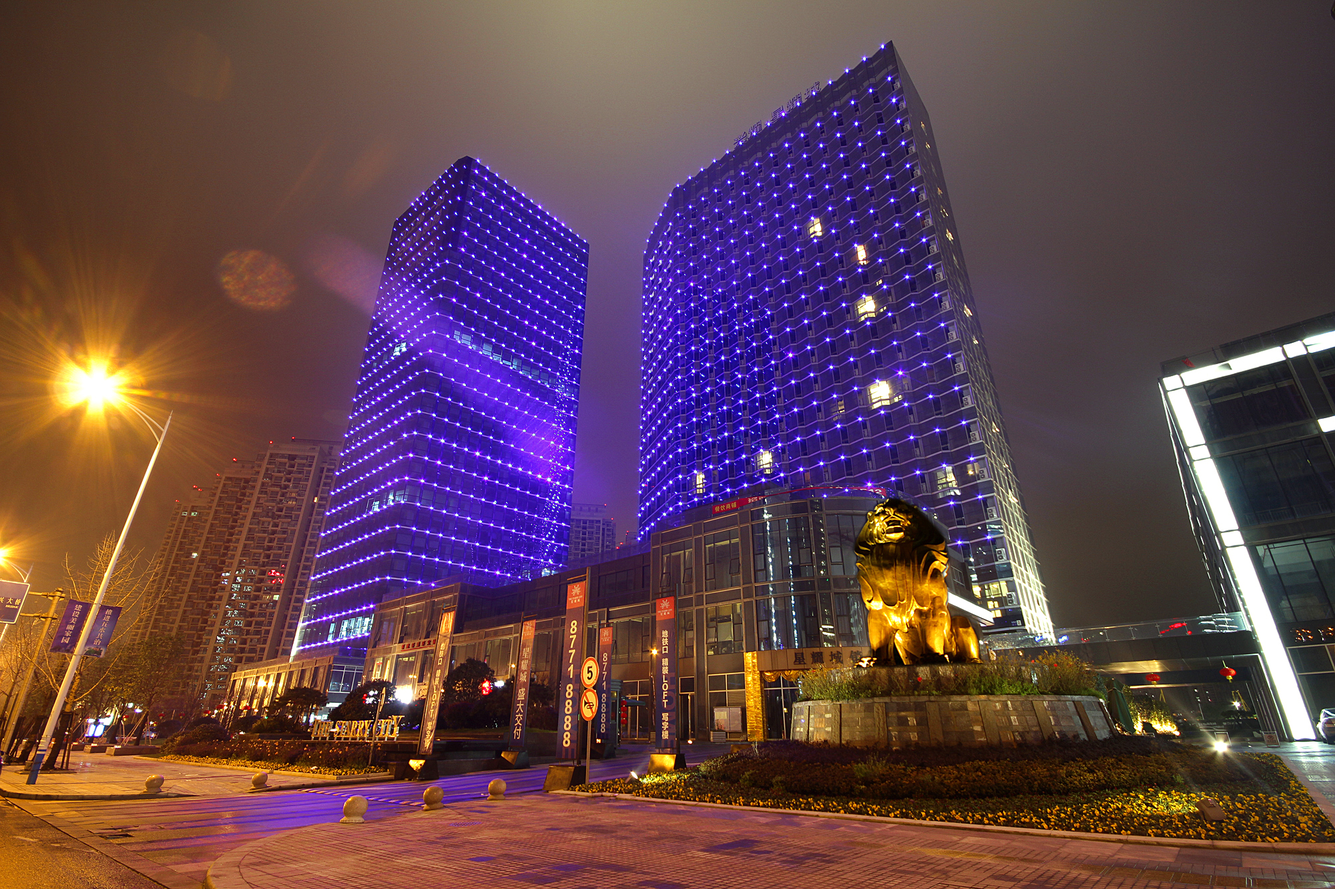
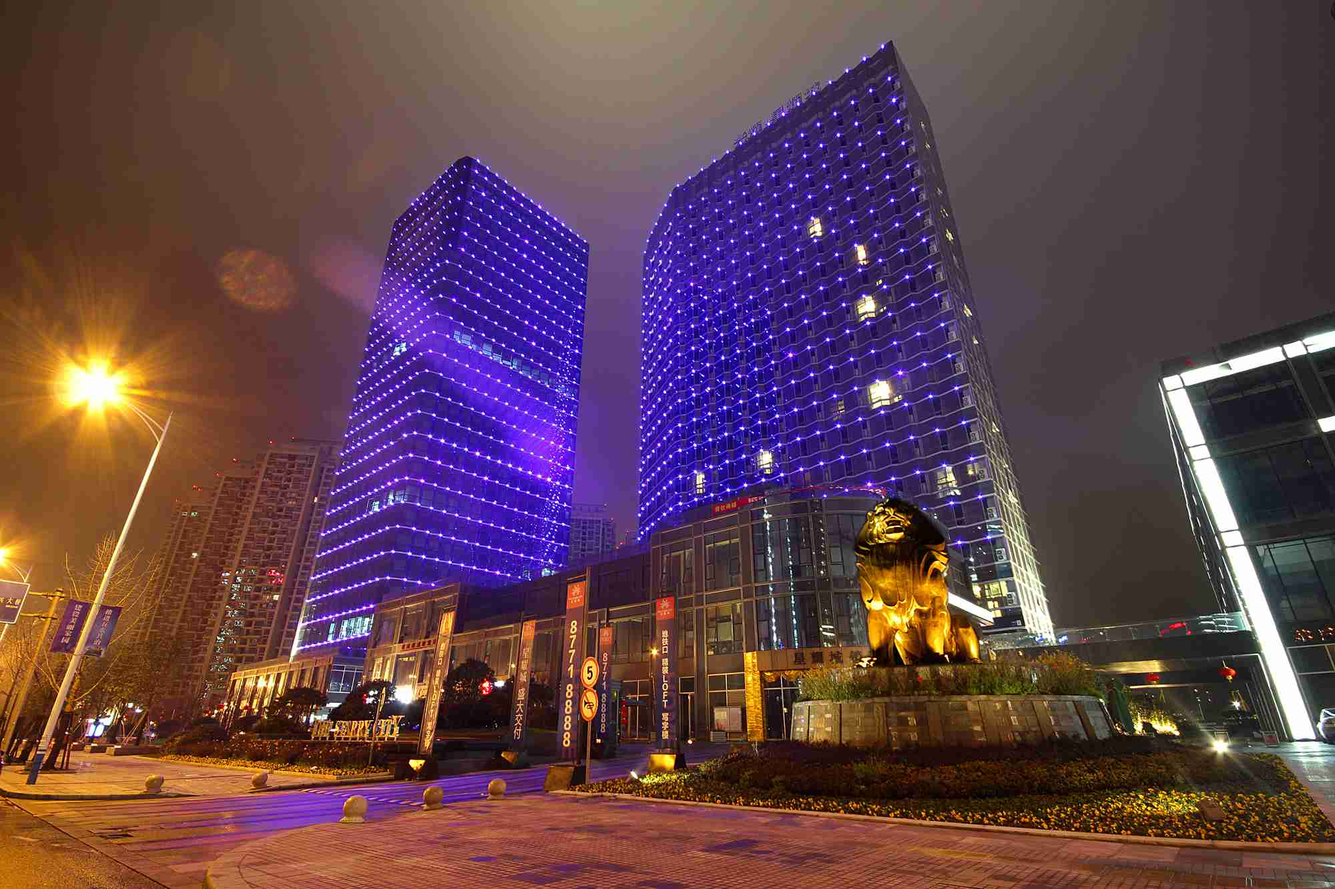
update

diff --git a/index.html b/index.html
@@ -30,14 +30,14 @@
                 <div class="smallbanner">
                     <div class="col-sm-6">
                         <div class="smallbannerimg">
-                            <img src="images/qiantai.png" alt="" />
+                            <img src="images/qiantai.jpg" alt="" />
                             <h3>宜兰公馆</h3>
                             <a href="#">Read More</a>
                         </div>
                     </div>
                     <div class="col-sm-6">
                         <div class="smallbannerimg">
-                            <img src="images/zhenpindachuangfang.png" alt="" />
+                            <img src="images/zhenpindachuangfang.jpg" alt="" />
                             <h3>宜茉莉公馆</h3>
                             <a href="#">Read More</a>
                         </div>
